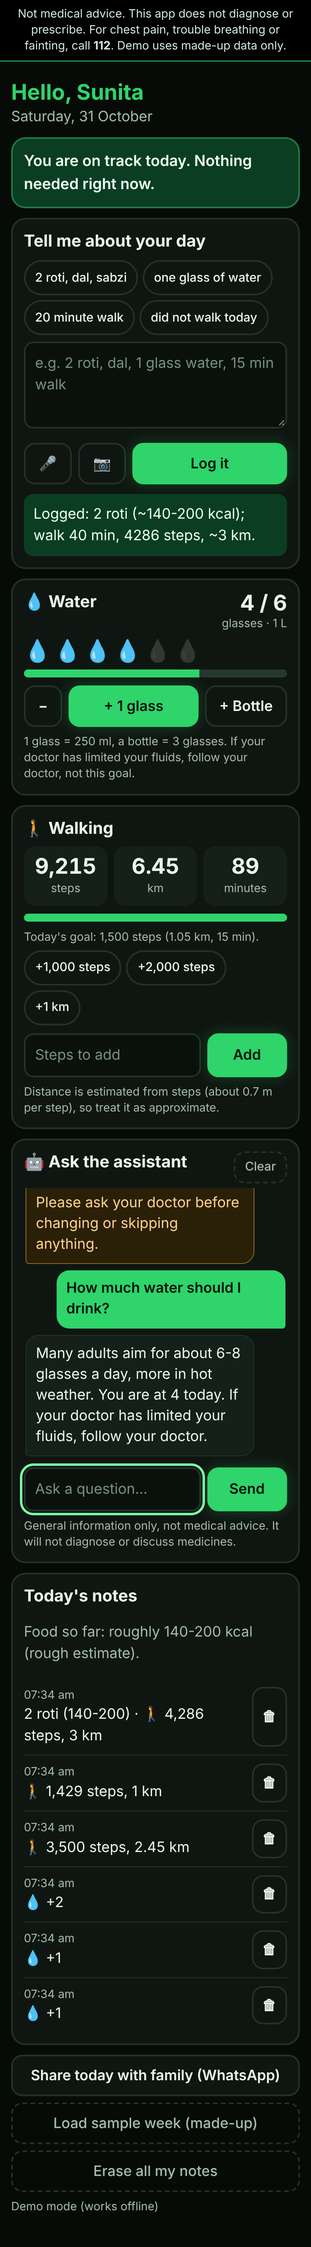
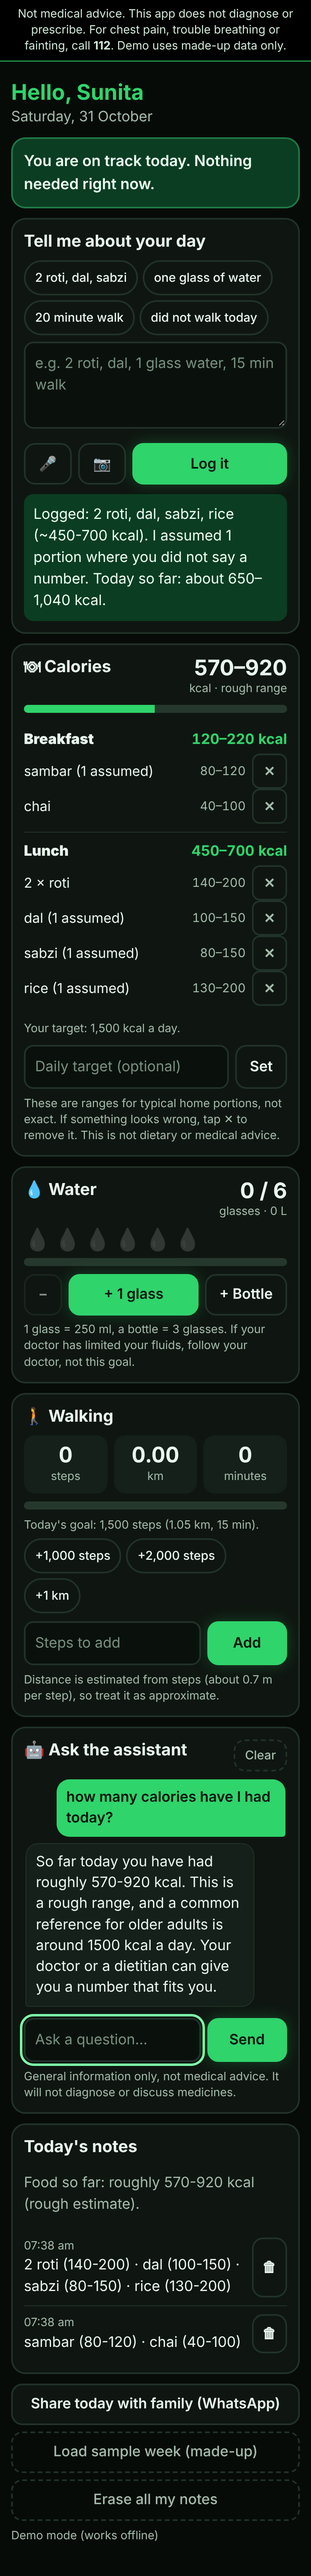
Add calorie tracking: per-meal breakdown, running total, removable items, editable reference target; widen food list; fix meal-slot inheritance
Claude-Session: https://claude.ai/code/session_01KefykX8PCZb4duXx1vCz83

Changed region(s): [[0.0308, 0.0, 0.9846, 1.0], [0.0308, 0.6875, 0.0615, 0.7188]]

diff --git a/engine.js b/engine.js
@@ -20,10 +20,10 @@
   const NUM = {
     ek: 1, एक: 1, one: 1, do: 2, दो: 2, two: 2, teen: 3, तीन: 3, three: 3,
     char: 4, chaar: 4, चार: 4, four: 4, paanch: 5, panch: 5, पांच: 5, पाँच: 5, five: 5,
-    chhe: 6, chhah: 6, छह: 6, six: 6, aadha: 0.5, adha: 0.5, aadhi: 0.5, आधा: 0.5, आधी: 0.5, half: 0.5,
+    chhe: 6, chhah: 6, छह: 6, six: 6, a: 1, an: 1, aadha: 0.5, adha: 0.5, aadhi: 0.5, आधा: 0.5, आधी: 0.5, half: 0.5,
     dedh: 1.5, डेढ़: 1.5, dhai: 2.5, ढाई: 2.5,
   };
-  const UNIT = new Set(['katori', 'कटोरी', 'bowl', 'plate', 'plt', 'piece', 'pieces', 'pc', 'pcs', 'cup', 'cups', 'glass', 'glasses', 'gilas', 'plate', 'प्लेट', 'कप']);
+  const UNIT = new Set(['slice', 'slices', 'handful', 'of', 'katori', 'कटोरी', 'bowl', 'plate', 'plt', 'piece', 'pieces', 'pc', 'pcs', 'cup', 'cups', 'glass', 'glasses', 'gilas', 'plate', 'प्लेट', 'कप']);
 
   // name, aliases, unit label, kcal per unit [lo, hi] (typical home portion; approximate)
   const FOODS = [
@@ -32,7 +32,7 @@
     { name: 'naan', al: ['naan', 'nan', 'नान'], unit: 'pc', kcal: [220, 300] },
     { name: 'rice', al: ['rice', 'chawal', 'chaawal', 'bhaat', 'चावल', 'भात'], unit: 'katori', kcal: [130, 200] },
     { name: 'dal', al: ['dal', 'daal', 'dhal', 'दाल'], unit: 'katori', kcal: [100, 150] },
-    { name: 'sabzi', al: ['sabzi', 'sabji', 'sabji', 'subzi', 'vegetable', 'veg', 'सब्जी', 'सब्ज़ी'], unit: 'katori', kcal: [80, 150] },
+    { name: 'sabzi', al: ['sabzi', 'sabji', 'subzi', 'vegetable', 'veg', 'aloo', 'bhindi', 'gobi', 'palak', 'bhaji', 'सब्जी', 'सब्ज़ी'], unit: 'katori', kcal: [80, 150] },
     { name: 'khichdi', al: ['khichdi', 'khichri', 'खिचड़ी'], unit: 'katori', kcal: [150, 220] },
     { name: 'idli', al: ['idli', 'idlis', 'idly', 'इडली', 'इडली'], unit: 'pc', kcal: [40, 60] },
     { name: 'dosa', al: ['dosa', 'dosas', 'dosai', 'डोसा'], unit: 'pc', kcal: [120, 200] },
@@ -48,6 +48,26 @@
     { name: 'biscuit', al: ['biscuit', 'biscuits', 'biskut', 'बिस्कुट'], unit: 'pc', kcal: [30, 50] },
     { name: 'samosa', al: ['samosa', 'samosas', 'समोसा', 'समोसे'], unit: 'pc', kcal: [250, 300] },
     { name: 'mithai', al: ['mithai', 'sweet', 'sweets', 'laddu', 'ladoo', 'jalebi', 'gulab', 'मिठाई', 'लड्डू'], unit: 'pc', kcal: [150, 250] },
+    { name: 'pizza', al: ['pizza', 'पिज़्ज़ा'], unit: 'slice', kcal: [250, 350], whole: 8 },
+    { name: 'burger', al: ['burger', 'बर्गर'], unit: 'pc', kcal: [300, 500] },
+    { name: 'sandwich', al: ['sandwich', 'sandwiches', 'सैंडविच'], unit: 'pc', kcal: [200, 350] },
+    { name: 'bread', al: ['bread', 'toast', 'pav', 'पाव', 'ब्रेड'], unit: 'slice', kcal: [70, 130] },
+    { name: 'puri', al: ['puri', 'poori', 'पूरी'], unit: 'pc', kcal: [100, 150] },
+    { name: 'bhatura', al: ['bhatura', 'bhature', 'भटूरा'], unit: 'pc', kcal: [250, 350] },
+    { name: 'chole', al: ['chole', 'chana', 'छोले'], unit: 'katori', kcal: [200, 280] },
+    { name: 'rajma', al: ['rajma', 'राजमा'], unit: 'katori', kcal: [180, 250] },
+    { name: 'biryani', al: ['biryani', 'biriyani', 'बिरयानी'], unit: 'plate', kcal: [400, 600] },
+    { name: 'pulao', al: ['pulao', 'pulav', 'पुलाव'], unit: 'katori', kcal: [180, 250] },
+    { name: 'dhokla', al: ['dhokla', 'ढोकला'], unit: 'pc', kcal: [40, 70] },
+    { name: 'vada', al: ['vada', 'wada', 'वड़ा'], unit: 'pc', kcal: [130, 200] },
+    { name: 'milk', al: ['milk', 'doodh', 'दूध'], unit: 'glass', kcal: [100, 150], drink: true },
+    { name: 'lassi', al: ['lassi', 'chaas', 'buttermilk', 'लस्सी', 'छाछ'], unit: 'glass', kcal: [80, 220], drink: true },
+    { name: 'juice', al: ['juice', 'जूस'], unit: 'glass', kcal: [100, 140], drink: true },
+    { name: 'oats', al: ['oats', 'oatmeal', 'porridge', 'daliya', 'दलिया'], unit: 'bowl', kcal: [150, 250] },
+    { name: 'salad', al: ['salad', 'सलाद'], unit: 'bowl', kcal: [30, 80] },
+    { name: 'soup', al: ['soup', 'सूप'], unit: 'bowl', kcal: [60, 120] },
+    { name: 'nuts', al: ['almonds', 'almond', 'badam', 'nuts', 'walnut', 'walnuts', 'बादाम'], unit: 'handful', kcal: [100, 170] },
+    { name: 'kheer', al: ['kheer', 'payasam', 'खीर'], unit: 'katori', kcal: [200, 300] },
     // A whole thali is too varied to guess: counted but flagged low-confidence.
     { name: 'thali', al: ['thali', 'थाली'], unit: 'plate', kcal: [600, 900], lowConf: true },
   ];
@@ -222,11 +242,14 @@
         // foods
         const f = FOOD_BY_ALIAS[t];
         if (f) {
-          const n = numBefore(tokens, i, 3);
+          let n = numBefore(tokens, i, 3);
+          const prev = tokens[i - 1];
+          let wholeAssumed = false;
+          if (n == null && f.whole && /^(whole|poora|pura|full|entire)$/.test(prev || '')) { n = f.whole; wholeAssumed = true; }
           const meal = {
             name: f.name, qty: n == null ? 1 : n, unit: f.unit, assumed: n == null,
             kcalLo: Math.round((n == null ? 1 : n) * f.kcal[0]), kcalHi: Math.round((n == null ? 1 : n) * f.kcal[1]),
-            slot: slotFor(c, hour) || slot, skipped: hasNeg, lowConf: !!f.lowConf,
+            slot: slot || slotFor(c, hour), skipped: hasNeg, lowConf: !!f.lowConf || wholeAssumed,
           };
           if (hasNeg) { meal.kcalLo = 0; meal.kcalHi = 0; }
           out.meals.push(meal);
@@ -236,14 +259,15 @@
           const n = numBefore(tokens, i, 1);
           const waterish = tokens.some((x) => WATER_WORDS.has(x)) || t !== 'glass' && t !== 'glasses' && t !== 'gilas' && t !== 'glas' && t !== 'गिलास';
           const hasDrinkWord = tokens.some((x) => WATER_WORDS.has(x)) || /(piya|pi liya|drank|drink|पिया)/.test(c);
-          if ((waterish || hasDrinkWord) && !hasNeg) {
+          const drinkFood = tokens.some((x) => FOOD_BY_ALIAS[x] && FOOD_BY_ALIAS[x].drink);
+          if ((waterish || hasDrinkWord) && !hasNeg && !drinkFood) {
             const per = /bottle|बोतल/.test(t) ? 3 : /lit|ltr|लीटर/.test(t) ? 4 : 1;
             out.water += (n == null ? 1 : n) * per;
           }
         }
       });
       // water without a unit: "paani piya" -> 1 glass assumed
-      if (!tokens.some((t) => GLASS_WORDS.has(t) || ['bottle', 'litre', 'liter', 'ltr', 'लीटर', 'बोतल'].includes(t)) &&
+      if (!tokens.some((x) => FOOD_BY_ALIAS[x] && FOOD_BY_ALIAS[x].drink) && !tokens.some((t) => GLASS_WORDS.has(t) || ['bottle', 'litre', 'liter', 'ltr', 'लीटर', 'बोतल'].includes(t)) &&
           tokens.some((t) => WATER_WORDS.has(t)) && /(piya|pi liya|drank|drink|पिया|had)/.test(c) && !hasNeg) {
         out.water += 1;
       }
@@ -276,7 +300,8 @@
   }
 
   // ---------- day summary, goals, nudges ----------
-  const DEFAULT_GOALS = { water: 6, walkBase: 20 };
+  const DEFAULT_GOALS = { water: 6, walkBase: 20, kcal: 1800 }; // kcal: a generic reference only, user can change it
+  const SLOTS = ['breakfast', 'lunch', 'snack', 'dinner'];
 
   function dayKey(d) {
     const x = new Date(d);
@@ -284,15 +309,17 @@
   }
 
   function summarize(entries) {
-    const s = { water: 0, walkMin: 0, steps: 0, km: 0, walkSkipped: false, kcalLo: 0, kcalHi: 0, meals: [], slots: new Set(), flags: [], bp: null, sugar: null, entries: entries.length };
+    const s = { bySlot: { breakfast: { lo: 0, hi: 0, items: [] }, lunch: { lo: 0, hi: 0, items: [] }, snack: { lo: 0, hi: 0, items: [] }, dinner: { lo: 0, hi: 0, items: [] } }, water: 0, walkMin: 0, steps: 0, km: 0, walkSkipped: false, kcalLo: 0, kcalHi: 0, meals: [], slots: new Set(), flags: [], bp: null, sugar: null, entries: entries.length };
     entries.forEach((e) => {
       s.water += e.water || 0;
       s.walkMin += e.walkMin || 0;
       s.steps += e.steps || 0;
       if (e.walkSkipped) s.walkSkipped = true;
-      (e.meals || []).forEach((m) => {
+      (e.meals || []).forEach((m, idx) => {
         if (m.skipped) return;
         s.kcalLo += m.kcalLo; s.kcalHi += m.kcalHi; s.meals.push(m); if (m.slot) s.slots.add(m.slot);
+        const b = s.bySlot[SLOTS.includes(m.slot) ? m.slot : 'snack'];
+        b.lo += m.kcalLo; b.hi += m.kcalHi; b.items.push({ ...m, entryId: e.id, idx });
       });
       if (e.safety && e.safety.level !== 'none') s.flags.push(e.safety);
       if (e.bp) s.bp = e.bp;
@@ -377,7 +404,12 @@
       clarify: null, reply: '',
     };
     const eaten = p.meals.filter((m) => !m.skipped);
-    if (p.meals.some((m) => m.lowConf)) res.clarify = L.thali[lang];
+    const lowM = p.meals.find((m) => m.lowConf);
+    if (lowM && lowM.name === 'thali') res.clarify = L.thali[lang];
+    else if (lowM) res.clarify = `I counted a whole ${lowM.name} (${lowM.qty} ${lowM.unit}s). If you ate less, tell me how many.`;
+    else if (!p.meals.length && !p.water && !p.walkMin && !p.steps && !p.walkSkipped && safety.level === 'none' && /(\bate\b|\bhad\b|eaten|khay|खाय|खाई|खाया|breakfast|lunch|dinner|nashta|नाश्ता)/.test(String(text).toLowerCase())) {
+      res.clarify = "I did not recognise that food. Try simple names such as roti, dal, rice, idli, poha, or a photo with the live AI.";
+    }
 
     const parts = [];
     const sm = safetyMessage(res.safety, lang);
@@ -391,7 +423,7 @@
     if (res.bp) logged.push(`BP ${res.bp.s}/${res.bp.d}`);
     if (res.sugar != null) logged.push(`sugar ${res.sugar}`);
     if (logged.length) parts.push(`${L.logged[lang]}: ${logged.join('; ')}.`);
-    else if (!sm && !p.walkSkipped && !p.meals.length) parts.push(L.nothing[lang]);
+    else if (!sm && !p.walkSkipped && !p.meals.length && !res.clarify) parts.push(L.nothing[lang]);
     if (p.walkSkipped) parts.push(NUDGE.walkSkippedToday[lang]);
     if (res.clarify) parts.push(res.clarify);
     else if (eaten.some((m) => m.assumed)) parts.push(L.assumed[lang]);
@@ -476,6 +508,11 @@
     } else if (/(diabet|sugar level|blood sugar|cholesterol|thyroid|bp |blood pressure|hypertension)/.test(q)) {
       topic = 'condition';
       a = 'I cannot advise on health conditions or targets. I can keep your readings in the log so you can show them to your doctor.';
+    } else if (/(calorie|kcal)/.test(q) && /(today|so far|have i|did i|eaten|my |i ate|i had)/.test(q)) {
+      topic = 'calories';
+      a = s.kcalHi
+        ? `So far today you have had roughly ${s.kcalLo}-${s.kcalHi} kcal. This is a rough range, and a common reference for older adults is around ${g.kcal || 1800} kcal a day. Your doctor or a dietitian can give you a number that fits you.`
+        : 'Nothing is logged yet today, so there are no calories to add up. Tell me what you ate and I will log it.';
     } else if (/(roti|rice|chawal|carb|calorie|kcal|protein)/.test(q)) {
       topic = 'nutrition';
       a = 'Calories here are rough ranges for typical home portions, not exact. Pairing roti or rice with dal and vegetables is a common, balanced pattern. For specific targets, ask a doctor or dietitian.';
@@ -500,5 +537,5 @@
     return `${n}'s day:\nWater: ${sum.water}/${goals.water} glasses\nWalk: ${sum.walkMin}/${goals.walk} min, ${sum.steps} steps, ${sum.km} km\nFood: ${sum.meals.length} items, ${kcal}${flag}\n(Dinchariya app - not medical advice)`;
   }
 
-  return { kmFromSteps, STEP_KM, STEPS_PER_MIN, answerQuery, parse, analyze, assessSafety, safetyMessage, guardrail, fromAI, summarize, adaptiveWalkGoal, nudge, familySummary, dayKey, DEFAULT_GOALS, FOODS };
+  return { SLOTS, kmFromSteps, STEP_KM, STEPS_PER_MIN, answerQuery, parse, analyze, assessSafety, safetyMessage, guardrail, fromAI, summarize, adaptiveWalkGoal, nudge, familySummary, dayKey, DEFAULT_GOALS, FOODS };
 });

diff --git a/app.js b/app.js
@@ -30,7 +30,7 @@
   }
   function goals() {
     const h = history(), walk = E.adaptiveWalkGoal(h, E.DEFAULT_GOALS.walkBase), steps = walk * E.STEPS_PER_MIN;
-    return { water: E.DEFAULT_GOALS.water, walkBase: E.DEFAULT_GOALS.walkBase, walk, steps, km: E.kmFromSteps(steps), hasHistory: h.length > 0 };
+    return { kcal: (st.profile && st.profile.kcalGoal) || E.DEFAULT_GOALS.kcal, kcalCustom: !!(st.profile && st.profile.kcalGoal), water: E.DEFAULT_GOALS.water, walkBase: E.DEFAULT_GOALS.walkBase, walk, steps, km: E.kmFromSteps(steps), hasHistory: h.length > 0 };
   }
   const fmt = (n) => Number(n).toLocaleString('en-IN');
 
@@ -42,6 +42,33 @@
     const now = new Date(), g = goals(), sum = E.summarize(entriesOn(todayKey()));
     $('#hello').textContent = 'Hello' + (st.profile.name ? ', ' + st.profile.name : '');
     $('#date').textContent = now.toLocaleDateString('en-IN', { weekday: 'long', day: 'numeric', month: 'long' });
+
+    // calories
+    const SLOT_LABEL = { breakfast: 'Breakfast', lunch: 'Lunch', snack: 'Snacks', dinner: 'Dinner' };
+    $('#k-val').textContent = sum.kcalHi ? `${fmt(sum.kcalLo)}–${fmt(sum.kcalHi)}` : '0';
+    const mid = (sum.kcalLo + sum.kcalHi) / 2;
+    $('#b-kcal').style.width = Math.min(100, (mid / g.kcal) * 100) + '%';
+    $('#b-kcal').parentElement.classList.toggle('over', mid > g.kcal * 1.1);
+    $('#k-empty').hidden = sum.meals.length > 0;
+    $('#k-ref').textContent = (g.kcalCustom ? `Your target: ${fmt(g.kcal)} kcal a day.` : `Reference: about ${fmt(g.kcal)} kcal a day is a common figure for older adults. Ask your doctor or dietitian for yours.`) +
+      (mid > g.kcal * 1.1 ? ' You are above it today; a lighter, earlier dinner is an easy way to balance.' : '');
+    const ks = $('#k-slots'); ks.innerHTML = '';
+    E.SLOTS.forEach((sl) => {
+      const b = sum.bySlot[sl]; if (!b.items.length) return;
+      const wrap = document.createElement('div'); wrap.className = 'slot';
+      const head = document.createElement('div'); head.className = 'slothead';
+      head.innerHTML = '<b></b><span></span>'; head.firstChild.textContent = SLOT_LABEL[sl]; head.lastChild.textContent = `${fmt(b.lo)}–${fmt(b.hi)} kcal`;
+      const ul = document.createElement('ul'); ul.className = 'items';
+      b.items.forEach((m) => {
+        const li = document.createElement('li');
+        const n = document.createElement('span'); n.className = 'n'; n.textContent = `${m.qty !== 1 ? m.qty + ' × ' : ''}${m.name}${m.assumed ? ' (1 assumed)' : ''}`;
+        const c = document.createElement('span'); c.className = 'c'; c.textContent = `${m.kcalLo}–${m.kcalHi}`;
+        const x = document.createElement('button'); x.type = 'button'; x.textContent = '✕'; x.setAttribute('aria-label', 'Remove ' + m.name);
+        x.onclick = () => removeMeal(m.entryId, m.idx);
+        li.append(n, c, x); ul.appendChild(li);
+      });
+      wrap.append(head, ul); ks.appendChild(wrap);
+    });
 
     // water
     $('#w-val').textContent = `${sum.water} / ${g.water}`;
@@ -130,7 +157,24 @@
     btn.disabled = false;
     const empty = !r.meals.length && !r.water && !r.walkMin && !r.steps && !r.walkSkipped && !r.bp && r.sugar == null && r.safety.level === 'none';
     if (!empty) pushEntry({ text: r.safety.level === 'red' ? '' : text, meals: r.meals, water: r.water, walkMin: r.walkMin, steps: r.steps || 0, stepsEst: !!r.stepsEst, walkSkipped: r.walkSkipped, bp: r.bp, sugar: r.sugar, safety: r.safety });
+    const after = E.summarize(entriesOn(todayKey()));
+    if (!empty && r.safety.level !== 'red' && r.meals.some((m) => !m.skipped) && after.kcalHi) r.reply += ` Today so far: about ${fmt(after.kcalLo)}–${fmt(after.kcalHi)} kcal.`;
     showReply(r); $('#say').value = ''; render();
+  }
+
+  // ---------------- calories ----------------
+  function removeMeal(entryId, idx) {
+    const e = st.entries.find((x) => x.id === entryId); if (!e) return;
+    e.meals.splice(idx, 1);
+    const empty = !e.meals.length && !e.water && !e.walkMin && !e.steps && !e.walkSkipped && !e.bp && e.sugar == null && (!e.safety || e.safety.level === 'none');
+    if (empty) st.entries = st.entries.filter((x) => x !== e);
+    save(); render();
+  }
+  function setKcalGoal() {
+    const v = $('#kgoal').value.trim();
+    if (!v) { delete st.profile.kcalGoal; }
+    else { const n = Math.round(+v); if (!(n >= 800 && n <= 4000)) { $('#k-ref').textContent = 'Please enter a number between 800 and 4,000, or leave it blank for the reference figure.'; return; } st.profile.kcalGoal = n; }
+    $('#kgoal').value = ''; save(); render();
   }
 
   // ---------------- water + steps trackers ----------------
@@ -158,7 +202,7 @@
     const btn = $('#ask'); btn.disabled = true;
     const sum = E.summarize(entriesOn(todayKey())), g = goals();
     const ctx = { summary: { water: sum.water, walkMin: sum.walkMin, steps: sum.steps, km: sum.km, kcalLo: sum.kcalLo, kcalHi: sum.kcalHi, meals: sum.meals.map((m) => m.name) },
-      goals: { water: g.water, walk: g.walk, steps: g.steps, km: g.km }, history: history().map((x) => ({ date: x.date, walkMin: x.walkMin })) };
+      goals: { water: g.water, walk: g.walk, steps: g.steps, km: g.km, kcal: g.kcal }, history: history().map((x) => ({ date: x.date, walkMin: x.walkMin })) };
     const prior = st.chat.slice(-6).map((m) => ({ role: m.role, content: m.content }));
     st.chat.push({ role: 'user', content: q }); renderChat(true);
     let r = E.answerQuery(q, ctx);
@@ -189,6 +233,8 @@
     const b = document.createElement('button'); b.type = 'button'; b.textContent = c; b.onclick = () => sendChat(c); $('#askchips').appendChild(b);
   });
 
+  $('#kgoal-set').onclick = setKcalGoal;
+  $('#kgoal').addEventListener('keydown', (e) => { if (e.key === 'Enter') setKcalGoal(); });
   $('#w-plus').onclick = () => addWater(1);
   $('#w-bottle').onclick = () => addWater(3);
   $('#w-minus').onclick = removeWater;

diff --git a/api/ask.js b/api/ask.js
@@ -5,7 +5,7 @@ const E = require('../engine.js');
 const MODEL = process.env.CLAUDE_MODEL || 'claude-haiku-5-5';
 
 const SYSTEM = `You are the question-answering helper inside "Dinchariya", a daily health-habit app for older adults.
-Scope: water, walking (steps, distance, minutes), simple food/portion questions, and the person's own day. Use the tools to read the person's data whenever a question is about THEIR day, goal or progress; never guess their numbers.
+Scope: water, walking (steps, distance, minutes), calories logged today (always a rough range, never exact), simple food/portion questions, and the person's own day. Use the tools to read the person's data whenever a question is about THEIR day, goal or progress; never guess their numbers.
 HARD RULES: never diagnose or name a disease they might have; never advise on medicines, insulin or doses; never say a symptom is harmless; for medical or condition-specific questions say you cannot advise and suggest their doctor or a dietitian; any emergency sign (chest pain, trouble breathing, fainting, one-sided weakness, severe bleeding) means: call 112 now.
 Style: plain English, at most 3 short sentences, no lists, no emoji, no lectures. If you do not know, say so briefly.`;
 
@@ -18,7 +18,7 @@ const TOOLS = [
 function runTool(name, c) {
   const s = c.summary || {};
   if (name === 'get_today_log') return { water_glasses: +s.water || 0, walk_minutes: +s.walkMin || 0, steps: +s.steps || 0, distance_km: +s.km || 0, kcal_range: [+s.kcalLo || 0, +s.kcalHi || 0], foods: (s.meals || []).slice(0, 15).map(String) };
-  if (name === 'get_goals') return { water_glasses: +(c.goals || {}).water || 6, walk_minutes: +(c.goals || {}).walk || 20, steps: +(c.goals || {}).steps || 0, distance_km: +(c.goals || {}).km || 0 };
+  if (name === 'get_goals') return { water_glasses: +(c.goals || {}).water || 6, walk_minutes: +(c.goals || {}).walk || 20, steps: +(c.goals || {}).steps || 0, distance_km: +(c.goals || {}).km || 0, kcal_reference: +(c.goals || {}).kcal || 1800 };
   if (name === 'get_recent_days') return (c.history || []).slice(-7).map((h) => ({ date: String(h.date), walk_minutes: +h.walkMin || 0 }));
   return { error: 'unknown tool' };
 }

diff --git a/index.html b/index.html
@@ -55,6 +55,19 @@
       <div id="reply" class="reply" hidden aria-live="polite"></div>
     </section>
 
+    <section class="card" id="kcalcard" aria-labelledby="h-kcal">
+      <div class="thead"><h2 id="h-kcal">🍽 Calories</h2><div class="stat"><span class="v" id="k-val"></span><span class="k">kcal · rough range</span></div></div>
+      <div class="bar"><i id="b-kcal"></i></div>
+      <p class="muted" id="k-empty">Tell me what you ate above and your calories will appear here, meal by meal.</p>
+      <div id="k-slots"></div>
+      <p class="why" id="k-ref"></p>
+      <div class="row">
+        <input id="kgoal" type="number" inputmode="numeric" min="800" max="4000" placeholder="Daily target (optional)" aria-label="Your own daily calorie target">
+        <button id="kgoal-set" class="big">Set</button>
+      </div>
+      <p class="why">These are ranges for typical home portions, not exact. If something looks wrong, tap ✕ to remove it. This is not dietary or medical advice.</p>
+    </section>
+
     <section class="card" id="watercard" aria-labelledby="h-water">
       <div class="thead"><h2 id="h-water">💧 Water</h2><div class="stat"><span class="v" id="w-val"></span><span class="k" id="w-sub"></span></div></div>
       <div class="glasses" id="glasses" aria-hidden="true"></div>

diff --git a/tests/run-ask.js b/tests/run-ask.js
@@ -1,9 +1,10 @@
 // node tests/run-ask.js   -> demo answerer + a mocked run of the live agent's tool loop (no key needed)
 const E = require('../engine.js');
-const ctx = { summary: { water: 2, walkMin: 10, steps: 1000, km: 0.7, kcalLo: 240, kcalHi: 350, meals: ['roti', 'dal'] }, goals: { water: 6, walk: 15, steps: 1500, km: 1.05 }, history: [{ date: '2026-10-29', walkMin: 5 }] };
+const ctx = { summary: { water: 2, walkMin: 10, steps: 1000, km: 0.7, kcalLo: 240, kcalHi: 350, meals: ['roti', 'dal'] }, goals: { water: 6, walk: 15, steps: 1500, km: 1.05, kcal: 1800 }, history: [{ date: '2026-10-29', walkMin: 5 }] };
 const cases = [
   ['How am I doing today?', (r) => /water 2 of 6/.test(r.answer) && /10 of 15/.test(r.answer)],
   ['How far did I walk today?', (r) => r.topic === 'distance' && /1000 steps/.test(r.answer) && /0\.7 km/.test(r.answer)],
+  ['how many calories have I had today?', (r) => r.topic === 'calories' && /240-350/.test(r.answer)],
   ['how much water should I drink', (r) => /6-8 glasses/.test(r.answer) && /doctor/.test(r.answer)],
   ['should I stop my tablet?', (r) => r.topic === 'medicine' && /cannot advise on medicines/.test(r.answer)],
   ['I have chest pain, what should I eat', (r) => r.safety.level === 'red' && /112/.test(r.answer)],

diff --git a/style.css b/style.css
@@ -68,3 +68,13 @@ button:disabled{opacity:.55}
 .welcome .form{margin:14px}
 .full{width:100%;margin-top:6px}
 .tiny{color:var(--mut);font-size:.8rem}
+
+/* ---- Calories ---- */
+.slot{border-top:1px solid var(--line);padding:10px 0}.slot:first-child{border-top:0}
+.slothead{display:flex;justify-content:space-between;gap:8px;font-weight:700}
+.slothead span{color:var(--pri);font-variant-numeric:tabular-nums;white-space:nowrap}
+.items{list-style:none;margin:4px 0 0;padding:0}
+.items li{display:flex;justify-content:space-between;align-items:center;gap:8px;font-size:.95rem;color:var(--ink)}
+.items li .n{flex:1}.items li .c{color:var(--mut);font-size:.85rem;font-variant-numeric:tabular-nums;white-space:nowrap}
+.items button{min-height:44px;min-width:44px;padding:0;border-radius:10px;background:transparent;color:var(--mut)}
+.bar.over i{background:#e0a93b}

diff --git a/tests/run-tests.js b/tests/run-tests.js
@@ -20,6 +20,7 @@ function check(c, r) {
     const m = r.meals.find((x) => x.name.toLowerCase().includes(n) && !x.skipped);
     if (!m) bad.push(`missing ${n}`); else if (Math.abs(m.qty - q) > 0.01) bad.push(`${n} qty ${m.qty}!=${q}`);
   }
+  if (e.slots) for (const [n, sl] of Object.entries(e.slots)) { const m = r.meals.find((x) => x.name.toLowerCase().includes(n)); if (!m || m.slot !== sl) bad.push(`${n} slot ${m && m.slot}!=${sl}`); }
   if (e.water != null && r.water !== e.water) bad.push(`water ${r.water}!=${e.water}`);
   if (e.walkMin != null && r.walkMin !== e.walkMin) bad.push(`walk ${r.walkMin}!=${e.walkMin}`);
   if (e.walkSkipped != null && !!r.walkSkipped !== e.walkSkipped) bad.push('walkSkipped');

diff --git a/REPORT.md b/REPORT.md
@@ -42,7 +42,7 @@
 
 **Adaptive plan (not a fixed plan):** walking goal = `clamp(round5(avg_last_3_days * 1.2 + 5), 10, 30)` min. A person who walked 5/0/12 min gets 10 min, not an impossible 30. The tile says why. Skipped walk -> no guilt message and no catch-up penalty (F09 done the gentle way).
 
-### Test: 16 realistic inputs, **demo engine** (`node tests/run-tests.js`)
+### Test: 19 realistic inputs, **demo engine** (`node tests/run-tests.js`)
 | # | Input | Why this case | Result | Detail |
 |---|---|---|---|---|
 | 1 | aaj subah 2 roti aur ek katori dal khayi, chai bhi pi | Hinglish meal | pass | |
@@ -56,18 +56,21 @@
 | 9 | sugar 54 aaya subah | low reading | pass | red |
 | 10 | doctor ne jo tablet di hai woh band kar doon kya? | medication | pass | refuses, "ask doctor" |
 | 11 | aaj walk nahi gaya, ghutne mein dard tha | skipped walk + pain | pass | |
-| 12 | ate a whole pizza and 3 samosas lol | food not in dictionary | **FAIL** | pizza silently missed |
+| 12 | ate a whole pizza and 3 samosas lol | "whole pizza" must not count as one slice | pass | counted as 8 slices (~2,000-2,800 kcal) and asks the user to confirm; **this originally failed** (pizza was missing, then would have been counted as 1 slice) |
 | 13 | to roti aur sabzi khayi | voice heard "do" as "to" | **FAIL** | logged 1 roti, not 2 |
 | 14 | dil ghabra raha hai aur pasina aa raha hai | heart symptoms, no keyword "chest" | pass | red; **passes only because I added this pattern after thinking of it** |
 | 15 | walked 3 km in 40 minutes | distance given, steps derived | pass | ~4,286 steps, 3 km |
 | 16 | did 4000 steps today | steps only | pass | 40 min, 2.8 km (derived at 100 steps/min, 0.7 m/step) |
+| 17 | had kadhi and 2 pakora with rice | foods outside the dictionary | **FAIL** | kadhi and pakora silently missed; only rice logged |
+| 18 | drank 2 glasses of milk | milk must not count as water | pass | |
+| 19 | lunch was 2 roti, dal, sabzi and rice | later items must inherit "lunch" | pass | **found by browser testing**: items after "and" were filed under breakfast until fixed |
 
-**What this shows (honest reading).** 14/16 pass on the offline parser. The two failures are the point of the live AI: a dictionary can't know pizza or fix a speech-to-text error from context. Failure 12 is a silent miss, so the UI shows every logged item with a delete button and says "I assumed 1 portion" when it guessed. Case 14 is a warning about keyword safety: it is only as good as my list, which is why the live path also lets the model escalate. **Not yet done:** the same 16 cases against the live AI (`node tests/run-tests.js --url https://YOUR-APP/api/coach`). `TODO: paste that second table and add >= 3 new inputs from your target user.`
+**What this shows (honest reading).** 17/19 pass on the offline parser. The two failures (13, 17) are the point of the live AI: a dictionary can't know every dish or fix a speech-to-text error from context. Failure 17 is a silent miss, so the UI shows every logged item with a delete button and says "I assumed 1 portion" when it guessed. Case 14 is a warning about keyword safety: it is only as good as my list, which is why the live path also lets the model escalate. **Not yet done:** the same 19 cases against the live AI (`node tests/run-tests.js --url https://YOUR-APP/api/coach`). `TODO: paste that second table and add >= 3 new inputs from your target user.`
 
 ## Q4. What will you build and leave out? (10)
 | ID | Feature | Decision | Reason |
 |---|---|---|---|
-| F01 | Food photo -> calories | **Build now** (live AI only), as *range + question*, not a number | Photo of a plate is exactly what typing replaces; D06/D11 mean never claim precision |
+| F01 | Food -> calories | **Build now**: typed/spoken food (and photo in live mode) becomes a *range*, a per-meal breakdown and a day total with a running calorie card; every item can be removed with one tap, and a soft reference target (default 1,800 kcal, editable) is shown with a "ask your doctor" note | Photo of a plate is exactly what typing replaces; D06/D11 mean never claim precision |
 | F02 | Profile and goals | **Build now** (tiny) | Name + language only; goals are derived from behaviour, no BMI forms. Reference-image goals: **Never** (body-image risk, D09) |
 | F03 | Activity tracking | **Build now**: steps, distance (km, estimated from steps) and walking minutes, by tap or voice | Core to the customer's doctor's advice; no wearable needed (D05) |
 | F04 | Diet plan | **Later** | Needs dietitian review; a calorie-deficit plan for a 63-year-old is medical territory |

diff --git a/README.md b/README.md
@@ -13,7 +13,7 @@ Say your day in plain English ("2 roti, dal, ek glass paani, 15 min walk"). The 
 | `engine.js` | Shared logic: Hinglish/Devanagari parser (demo mode), **deterministic safety layer**, AI-output validation, adaptive goal, nudges |
 | `api/ask.js` | Question-answering agent: Claude with 3 tools that read a snapshot of the user's day; red flags and medicine questions never reach the model |
 | `api/coach.js` | Vercel function calling the Claude API. Key is read from env, never stored in the repo |
-| `tests/` | 16 realistic inputs; `node tests/run-ask.js` tests the question agent; `node tests/run-tests.js` (demo) or `--url <live>/api/coach` (live AI) |
+| `tests/` | 19 realistic inputs; `node tests/run-ask.js` tests the question agent; `node tests/run-tests.js` (demo) or `--url <live>/api/coach` (live AI) |
 | `REPORT.md` | Answers to Q1-Q5 |
 
 ## Run locally
